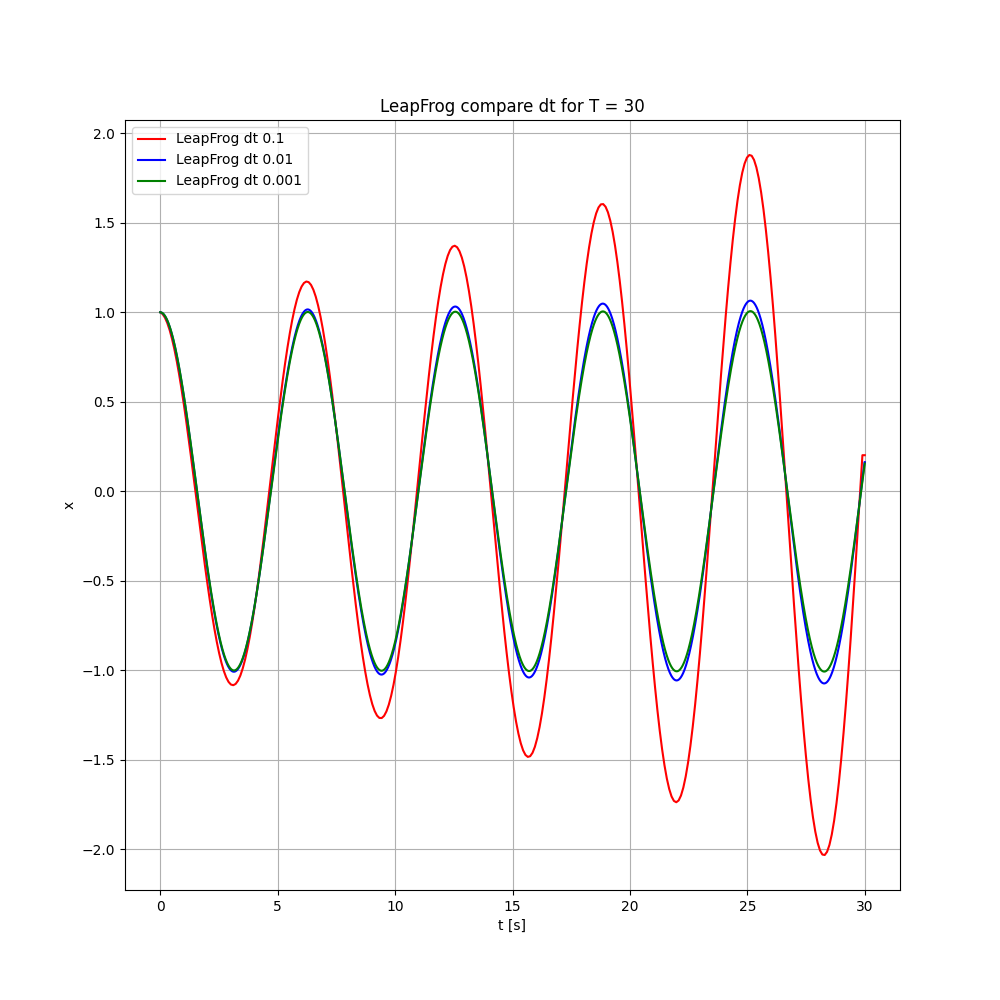
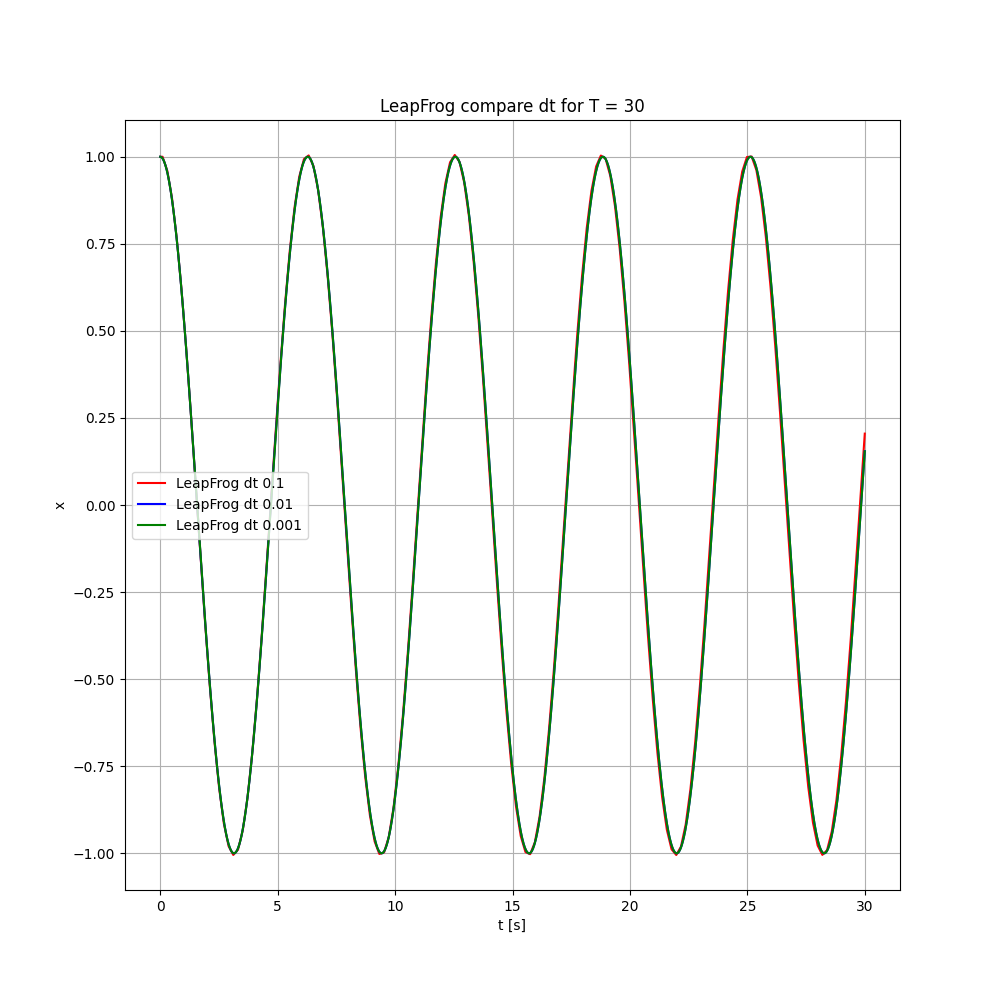
Modify

diff --git a/sources/Milestone_3.py b/sources/Milestone_3.py
@@ -22,8 +22,8 @@ Save = False # True Save the plots / False show the plots
 # T_S = [Euler, RK4, Crank_Nicolson, Inverse_Euler]
 # T_S_plot = ["Euler", "RK4", "CN", 'Euler_inver']
 # Order = [1, 4, 2, 1]
-T_S = [Inverse_Euler]
-T_S_plot = ["Euler_inver"]
+T_S = [RK4]
+T_S_plot = ["RK4"]
 Order = [1]
 
 #Initiation of Dictionaries
@@ -37,14 +37,14 @@ for i in range(len(dt)):
         N[i] = int(T/dt[i])
         t_dic[str(i)] = linspace(0,T, int(N[i]))
 
-with alive_bar(len(T_S)) as bar:
-        for j in range(len(T_S)):
-                for x in t_dic:
-                        Er_dic[x] = Richarson(U0, t_dic[x], Kepler, T_S[j], C_P, Order[j])
-                        plt.Plot_Er(Er_dic[x], t_dic[x], T, dt[int(x)], T_S_plot[j], Save)
-                plt.Plot_Er_compare(Er_dic, t_dic, T, dt, T_S_plot[j], Save)
-                print(T_S_plot[j] + " calculado \n")
-                bar()
+# with alive_bar(len(T_S)) as bar:
+#         for j in range(len(T_S)):
+#                 for x in t_dic:
+#                         Er_dic[x] = Richarson(U0, t_dic[x], Kepler, T_S[j], C_P, Order[j])
+#                         plt.Plot_Er(Er_dic[x], t_dic[x], T, dt[int(x)], T_S_plot[j], Save)
+#                 plt.Plot_Er_compare(Er_dic, t_dic, T, dt, T_S_plot[j], Save)
+#                 print(T_S_plot[j] + " calculado \n")
+#                 bar()
 
 # for j in range(len(T_S)): 
 #     for x in t_dic:
@@ -53,11 +53,11 @@ with alive_bar(len(T_S)) as bar:
 #         plt.Plot_Conv_Rat(log_N, log_Er, T, dt[int(x)],regress, T_S_plot[j], Save)
 
 # # #Simulations
-# with alive_bar(len(T_S)) as bar:
-#         for j in range ( len(T_S_plot) ):
-#                 for x in t_dic: # x is a str and U is creating new keys
-#                         U_dic[x]= C_P(Kepler, t_dic[x], U0, T_S[j])
-#                         plt.Plot_CP(U_dic[x], T, dt[int(x)], t_dic[x], T_S_plot[j], Save) # x return the value of the key
-#                 plt.Plot_CP_all(U_dic,t_dic,T, dt, T_S_plot[j], Save)
-#                 print(T_S_plot[j] + " calculado \n")
-#                 bar()
+with alive_bar(len(T_S)) as bar:
+        for j in range ( len(T_S_plot) ):
+                for x in t_dic: # x is a str and U is creating new keys
+                        U_dic[x]= C_P(Kepler, t_dic[x], U0, T_S[j], T_S_plot[j])
+                        plt.Plot_CP(U_dic[x], T, dt[int(x)], t_dic[x], T_S_plot[j], Save) # x return the value of the key
+                plt.Plot_CP_all(U_dic,t_dic,T, dt, T_S_plot[j], Save)
+                print(T_S_plot[j] + " calculado \n")
+                bar()

diff --git a/sources/Stability_Region/S_R.py b/sources/Stability_Region/S_R.py
@@ -1,31 +1,55 @@
 from numpy import sqrt, linspace, zeros, absolute, array
+from ODES.Temporal_Schemes import Euler, Inverse_Euler,RK4,Crank_Nicolson, LeapFrog
 
 def Stability_Region(T_S):
-    N = 100
-    R = linspace(-5,5,N)
-    I = linspace(-5,5,N)
-    w = zeros([N, N], dtype = complex)
+    # N = 100
+    # R = linspace(-5,5,N)
+    # I = linspace(-5,5,N)
+    # w = zeros([N, N], dtype = complex)
     
     # for i in range(N):
     #     w[i] = complex(R[i], I[i]) 
     
+    # for i in range(N):
+    #     for j in range(N):
+    #         w[j,i] = complex(R[i], I[j])
+    
+    return absolute(Stability_polynomial(T_S))
+    
+
+def Stability_polynomial(T_S):
+    
+    if T_S == 'Euler':
+        return Euler(1,1,0,P)
+    elif T_S == 'RK4':
+        return  RK4(1,1,0,P)
+    elif T_S == 'CN':
+        return  Crank_Nicolson(1,1,0,P)
+    elif T_S == 'Euler_inver':
+        return Inverse_Euler(1,1,0,P)
+    elif T_S == 'LeapFrog':
+        return LeapFrog(1,1,1,0,P)
+
+def P(U,t):
+    N = 100
+    R = linspace(-5,5,N)
+    I = linspace(-5,5,N)
+    w = zeros([N, N], dtype = complex)
     for i in range(N):
         for j in range(N):
             w[j,i] = complex(R[i], I[j])
-    return absolute(Stability_polynomial(T_S, w))
-    
+    return w*U
 
-
-def Stability_polynomial(T_S, w):
+# def Stability_polynomial(T_S, w):
     
-    if T_S == 'Euler':
-        return 1 + w
-    elif T_S == 'RK4':
-        return  1 + w + w**2/2 + w**3/6 + w**4/24
-    elif T_S == 'CN':
-        return  (2+w) / (2-w)
-    elif T_S == 'Euler_inver':
-        return 1 / (1-w) 
-    elif T_S == 'LeapFrog':
-        return sqrt(1)
+#     if T_S == 'Euler':
+#         return 1 + w
+#     elif T_S == 'RK4':
+#         return  1 + w + w**2/2 + w**3/6 + w**4/24
+#     elif T_S == 'CN':
+#         return  (2+w) / (2-w)
+#     elif T_S == 'Euler_inver':
+#         return 1 / (1-w) 
+#     elif T_S == 'LeapFrog':
+#         return sqrt(1)
          

diff --git a/sources/Graf/Plots.py b/sources/Graf/Plots.py
@@ -1,10 +1,10 @@
 import matplotlib.pyplot as plt
-from numpy import sqrt, size, linspace, zeros
+from numpy import sqrt, size, linspace, zeros, shape
 import os
 
 def Plot_CP(U, t, T, dt, T_S, Save):
     fig, ax = plt.subplots( figsize = (10, 10) )
-    ax.plot(t, U[0,:], label = T_S + "dt " + str(dt))
+    ax.plot(U[0,:], U[1,:], label = T_S + "dt " + str(dt))
     ax.set_xlabel('t [s]')
     ax.set_ylabel('x')
     ax.set_title(T_S)
@@ -18,7 +18,7 @@ def Plot_CP_all(U, t, T, dt, T_S, Save):
     fig, ax = plt.subplots( figsize=(10, 10) )
     colors = ['r','b','g']
     for i in t:
-        ax.plot(t[i], U[i][0,:], color = colors[int(i)], label= T_S + " dt " + str(dt[int(i)]))
+        ax.plot( U[i][0,:], U[i][1,:], color = colors[int(i)], label= T_S + " dt " + str(dt[int(i)]))
     ax.set_xlabel('t [s]')
     ax.set_ylabel('x')
     ax.set_title(T_S + ' compare dt for T = ' + str(T))
@@ -102,6 +102,22 @@ def Plot_SR(r, dt, T_S, Save):
     plt.grid()
     
     file = 'Stability Region of ' + T_S + ".png"
+    Save_plot(Save, file)
+    
+    
+def Plot_NBodies(U, t, T, dt, T_S, Save):
+    fig, ax = plt.subplots( figsize = (10, 10) )
+    ax = plt.axes(projection = '3d')
+    for i in range(2):
+        ax.plot(U[i*3,:], U[1 + (i*3),:], U[2 + (i*3),:], label = T_S + "dt " + str(dt))
+    ax.set_xlabel('x')
+    ax.set_ylabel('y')
+    ax.set_zlabel('z')
+    ax.set_title(T_S)
+    ax.legend()
+    ax.grid()
+    
+    file = T_S + "_dt_" + str(dt) +".png"
     Save_plot(Save, file)
     
 def Save_plot(Save, file):

diff --git a/sources/Milestone_4.py b/sources/Milestone_4.py
@@ -13,14 +13,14 @@ T = 30
 dt = [0.1, 0.01, 0.001]
 
 #Save Plots
-Save = True # True Save the plots / False show the plots
+Save = False # True Save the plots / False show the plots
 
-# # # Temporal_Schemes to use
+# Temporal_Schemes to use
 # T_S = [Euler, RK4, Crank_Nicolson, Inverse_Euler, LeapFrog]
 # T_S_plot = ["Euler", "RK4", "CN", 'Euler_inver', "LeapFrog"]
-# # Temporal_Schemes to use
 T_S = [LeapFrog]
 T_S_plot = [ "LeapFrog"]
+
 #Initiation of Dictionaries
 t_dic = { }
 U_dic = { }     
@@ -34,12 +34,12 @@ for i in range(len(dt)):
 
 
 # # #Simulations
-for j in range ( len(T_S_plot) ):
-        for x in t_dic: # x is a str and U is creating new keys
-                U_dic[x]= C_P(Linear_Oscilator, t_dic[x], U0, T_S[j], T_S_plot[j])
-                plt.Plot_CP(U_dic[x], t_dic[x], T, dt[int(x)], T_S_plot[j], Save) # x return the value of the key
-        plt.Plot_CP_all(U_dic,t_dic,T, dt, T_S_plot[j], Save)
-        print(T_S_plot[j] + " calculado \n")
+# for j in range ( len(T_S_plot) ):
+#         for x in t_dic: # x is a str and U is creating new keys
+#                 U_dic[x]= C_P(Linear_Oscilator, t_dic[x], U0, T_S[j], T_S_plot[j])
+#                 plt.Plot_CP(U_dic[x], t_dic[x], T, dt[int(x)], T_S_plot[j], Save) # x return the value of the key
+#         plt.Plot_CP_all(U_dic,t_dic,T, dt, T_S_plot[j], Save)
+#         print(T_S_plot[j] + " calculado \n")
 
 # #Stability Region
 

diff --git a/sources/Milestone_5.py b/sources/Milestone_5.py
@@ -1,0 +1,38 @@
+from numpy import array, save, zeros, linspace, shape
+from ODES.Cauchy_Problem import C_P
+from Problems.Physics import N_B
+from ODES.Temporal_Schemes import Euler, RK4, Crank_Nicolson, Inverse_Euler, LeapFrog
+import Graf.Plots as plt
+
+
+#Initial Conditions
+r01 = [1,1,0]; r02 = [0,0,1]
+v01 = [0,1,0]; v02 = [0,1,0]
+U0 = r01 + v01 + r02 + v02 # Concatenation of initical conditions
+T = 10
+dt = [0.1]
+
+#Save Plots
+Save = False # True Save the plots / False show the plots
+
+#Initiation of Dictionaries
+t_dic = { }
+U_dic = { }     
+S_R = { }
+N = zeros( (len(dt)) ) 
+
+#Iterations and times
+for i in range(len(dt)):
+        N[i] = int(T/dt[i])
+        t_dic[str(i)] = linspace(0,T, int(N[i]))
+
+# Simulations
+
+for j in range ( len(dt) ):
+        for x in t_dic: # x is a str and U is creating new keys
+                U_dic[x]= C_P(N_B, t_dic[x], U0, RK4, "RK4")
+                print( U_dic[x] )
+                plt.Plot_NBodies(U_dic[x], t_dic[x], T, dt[int(x)], "Rk4", Save) # x return the value of the key
+        # plt.Plot_CP_all(U_dic, t_dic, T, dt, RK4, Save)
+        print(" calculado \n")
+        

diff --git a/sources/Problems/Physics.py b/sources/Problems/Physics.py
@@ -1,4 +1,5 @@
-from numpy import array
+from numpy import array, reshape, zeros
+from numpy.linalg import norm
 
 #Kepler
 def Kepler(U, t): 
@@ -12,4 +13,29 @@ def Kepler(U, t):
 def Linear_Oscilator(U,t):
     
     return array([U[1], -U[0]])
-        
+
+def N_B(U,t):
+    
+    (Nb, Nc) = (2,3)
+    
+    Us = reshape( U, (Nb,Nc, 2) ) # Tensor Nb, Nc, (Position, Velocity)
+    
+    r = reshape( Us[:,:,0], (Nb,Nc) ) # Matrix Position 
+    v = reshape( Us[:,:,1], (Nb, Nc) ) # Matrix Velocity
+    
+    F = zeros( len(U) )
+    Fs = reshape( F, (Nb, Nc, 2) ) # Tensor Nb, Nc, (Position, Velocity) 
+    
+    drdt = reshape( Fs[:,:,0], (Nb,Nc) ) # Matrix Velocity
+    dvdt = reshape( Fs[:,:,1], (Nb,Nc) ) # Matrix Acceleration
+    
+    dvdt[:,:] = 0
+    
+    for i in range(Nb):
+        drdt[i,:] = v[i,:]
+        for j in range(Nb):
+            if j != i:
+                d = r[j,:] - r[i,:]
+                dvdt[i,:] +=  d[:]/( norm(d)**3)
+            
+    return F

diff --git a/sources/ODES/Cauchy_Problem.py b/sources/ODES/Cauchy_Problem.py
@@ -15,8 +15,9 @@ def C_P(F, t, U0, T_S, T_S_plot):
                 U[:,i+1] = T_S(U[:,i], U[:,i-1], dt, t[i], F)
     else:
         for i in range(N):
-            
+            dt = t[i+1]-t[i]
             U[:, i+1] = T_S(U[:,i], dt, t[i], F)
+
         
     return U
     

diff --git a/sources/ODES/Temporal_Schemes.py b/sources/ODES/Temporal_Schemes.py
@@ -34,7 +34,7 @@ def Inverse_Euler(U, dt, t, F):
         
         return x - U - dt*F(x,t)
 
-    return Newton_LU(Euler_res, U)
+    return fsolve(Euler_res, U)
 
 #LeapFrog
 def LeapFrog(U1, U, dt, t, F):
